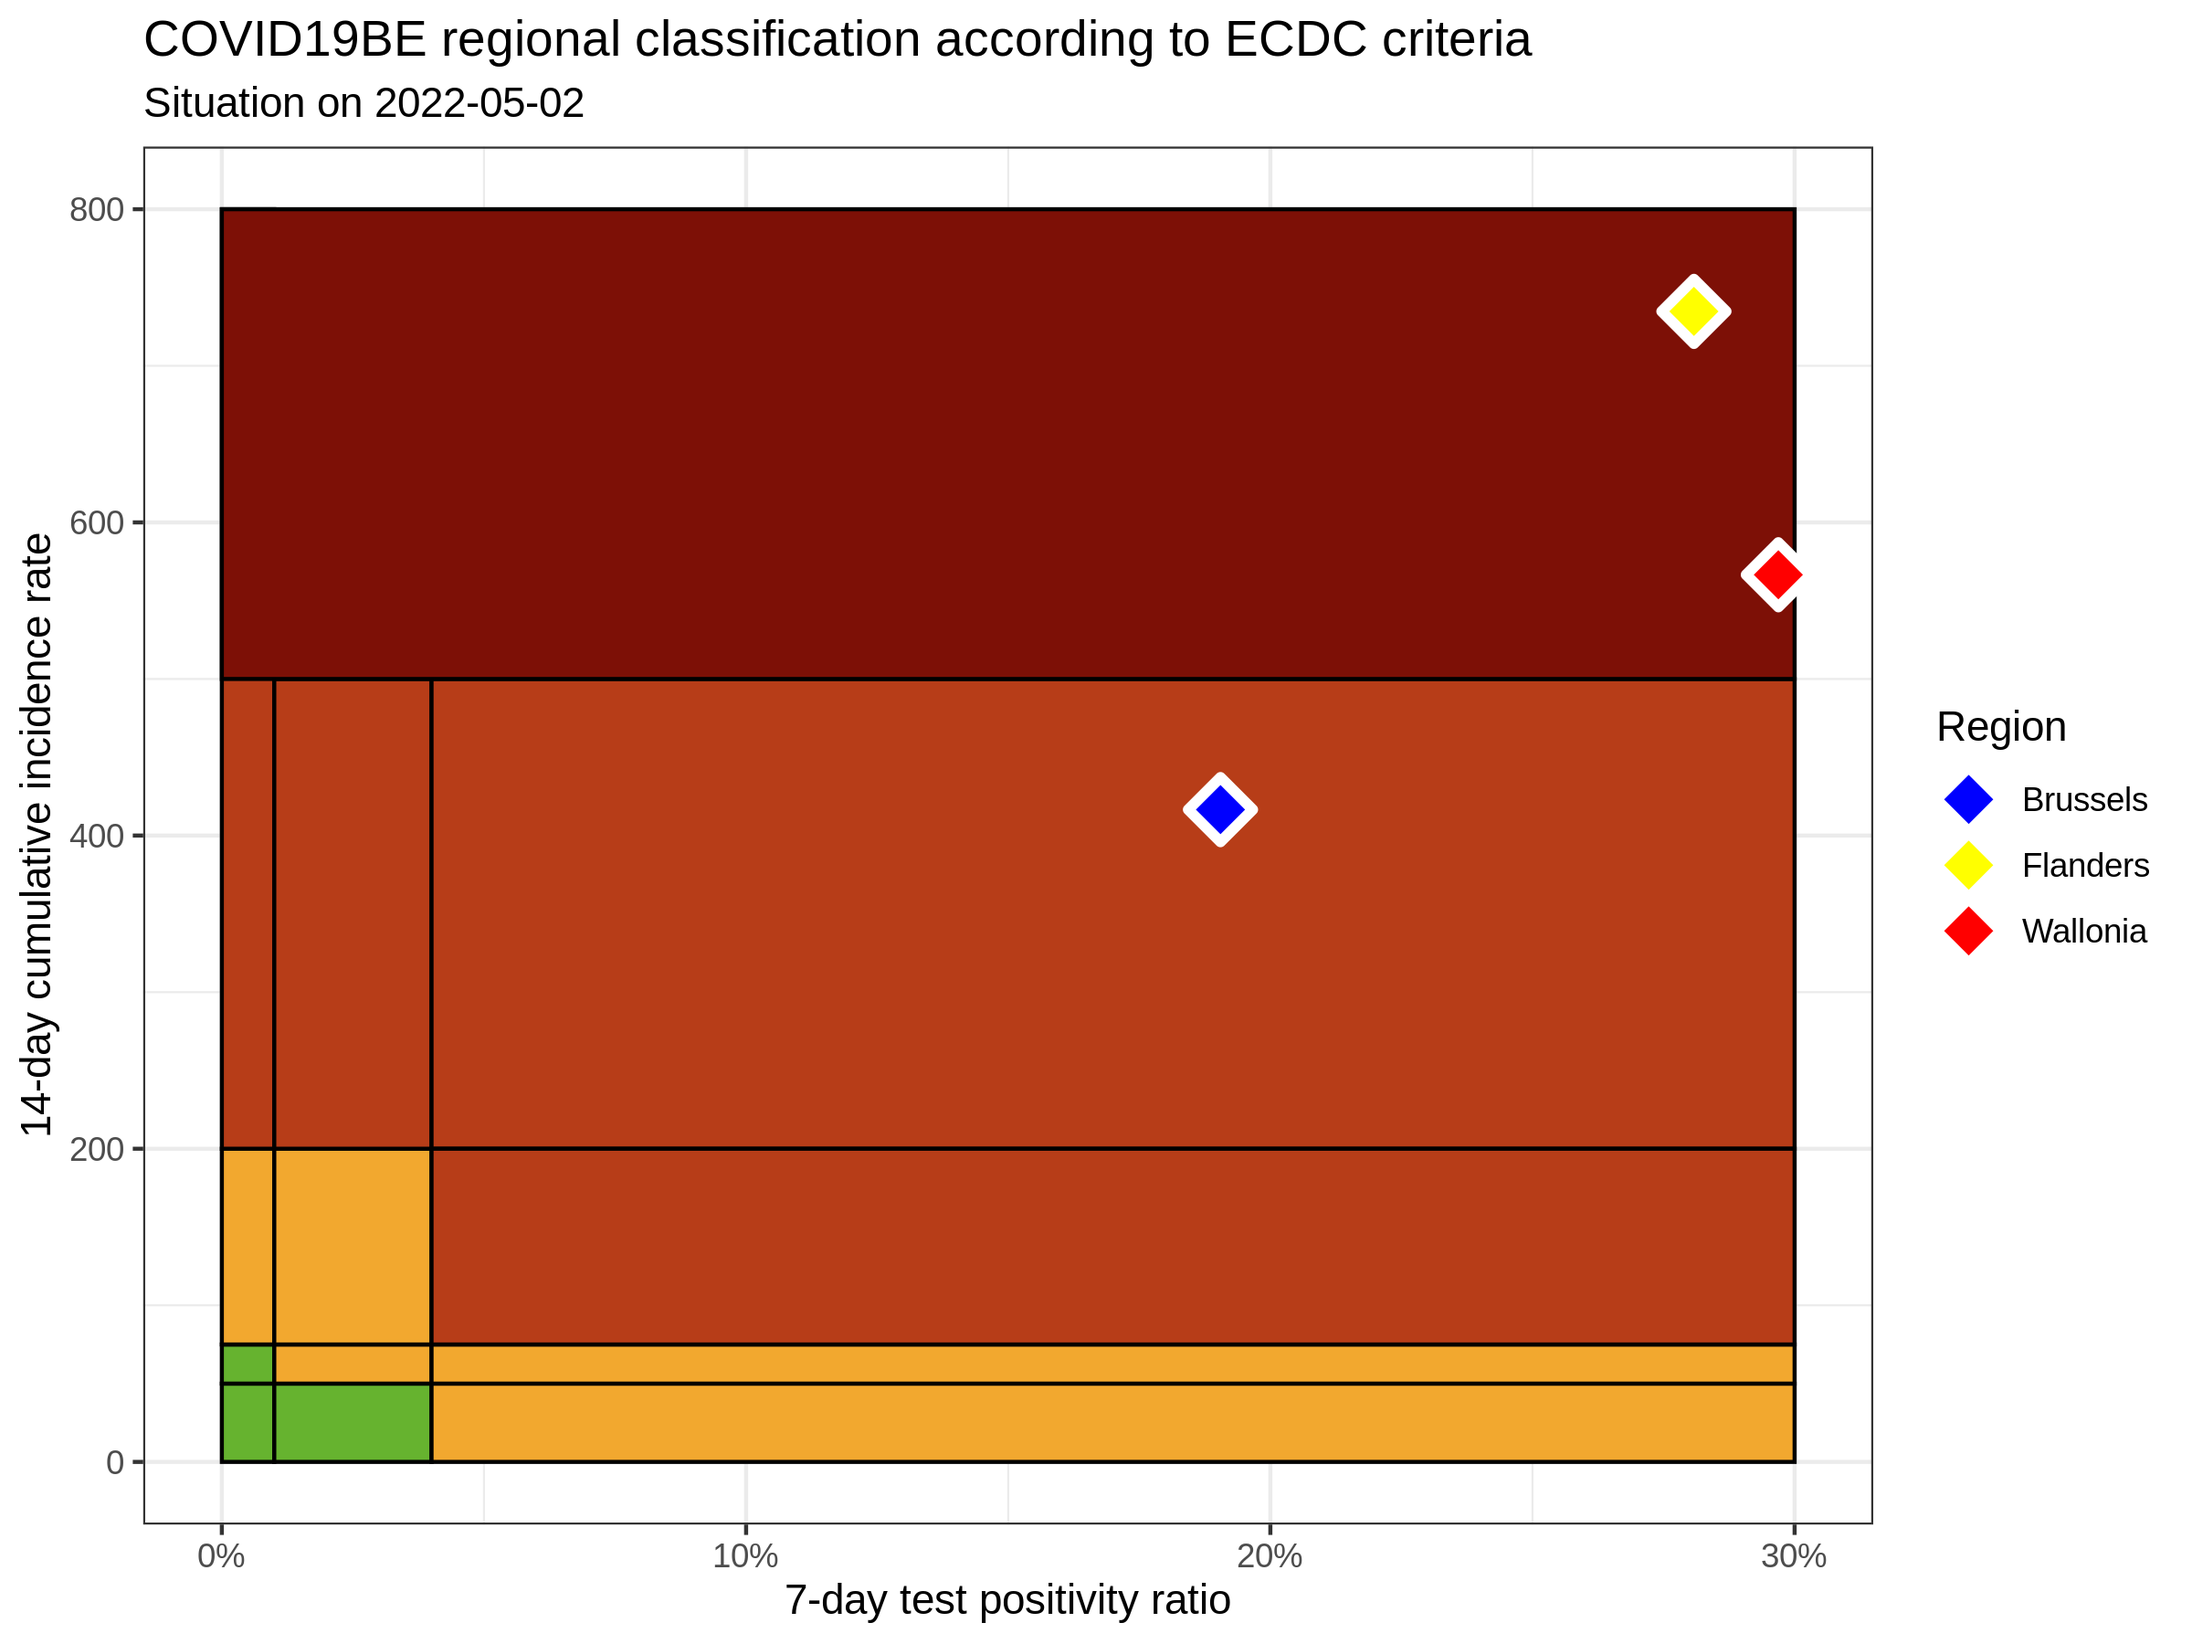
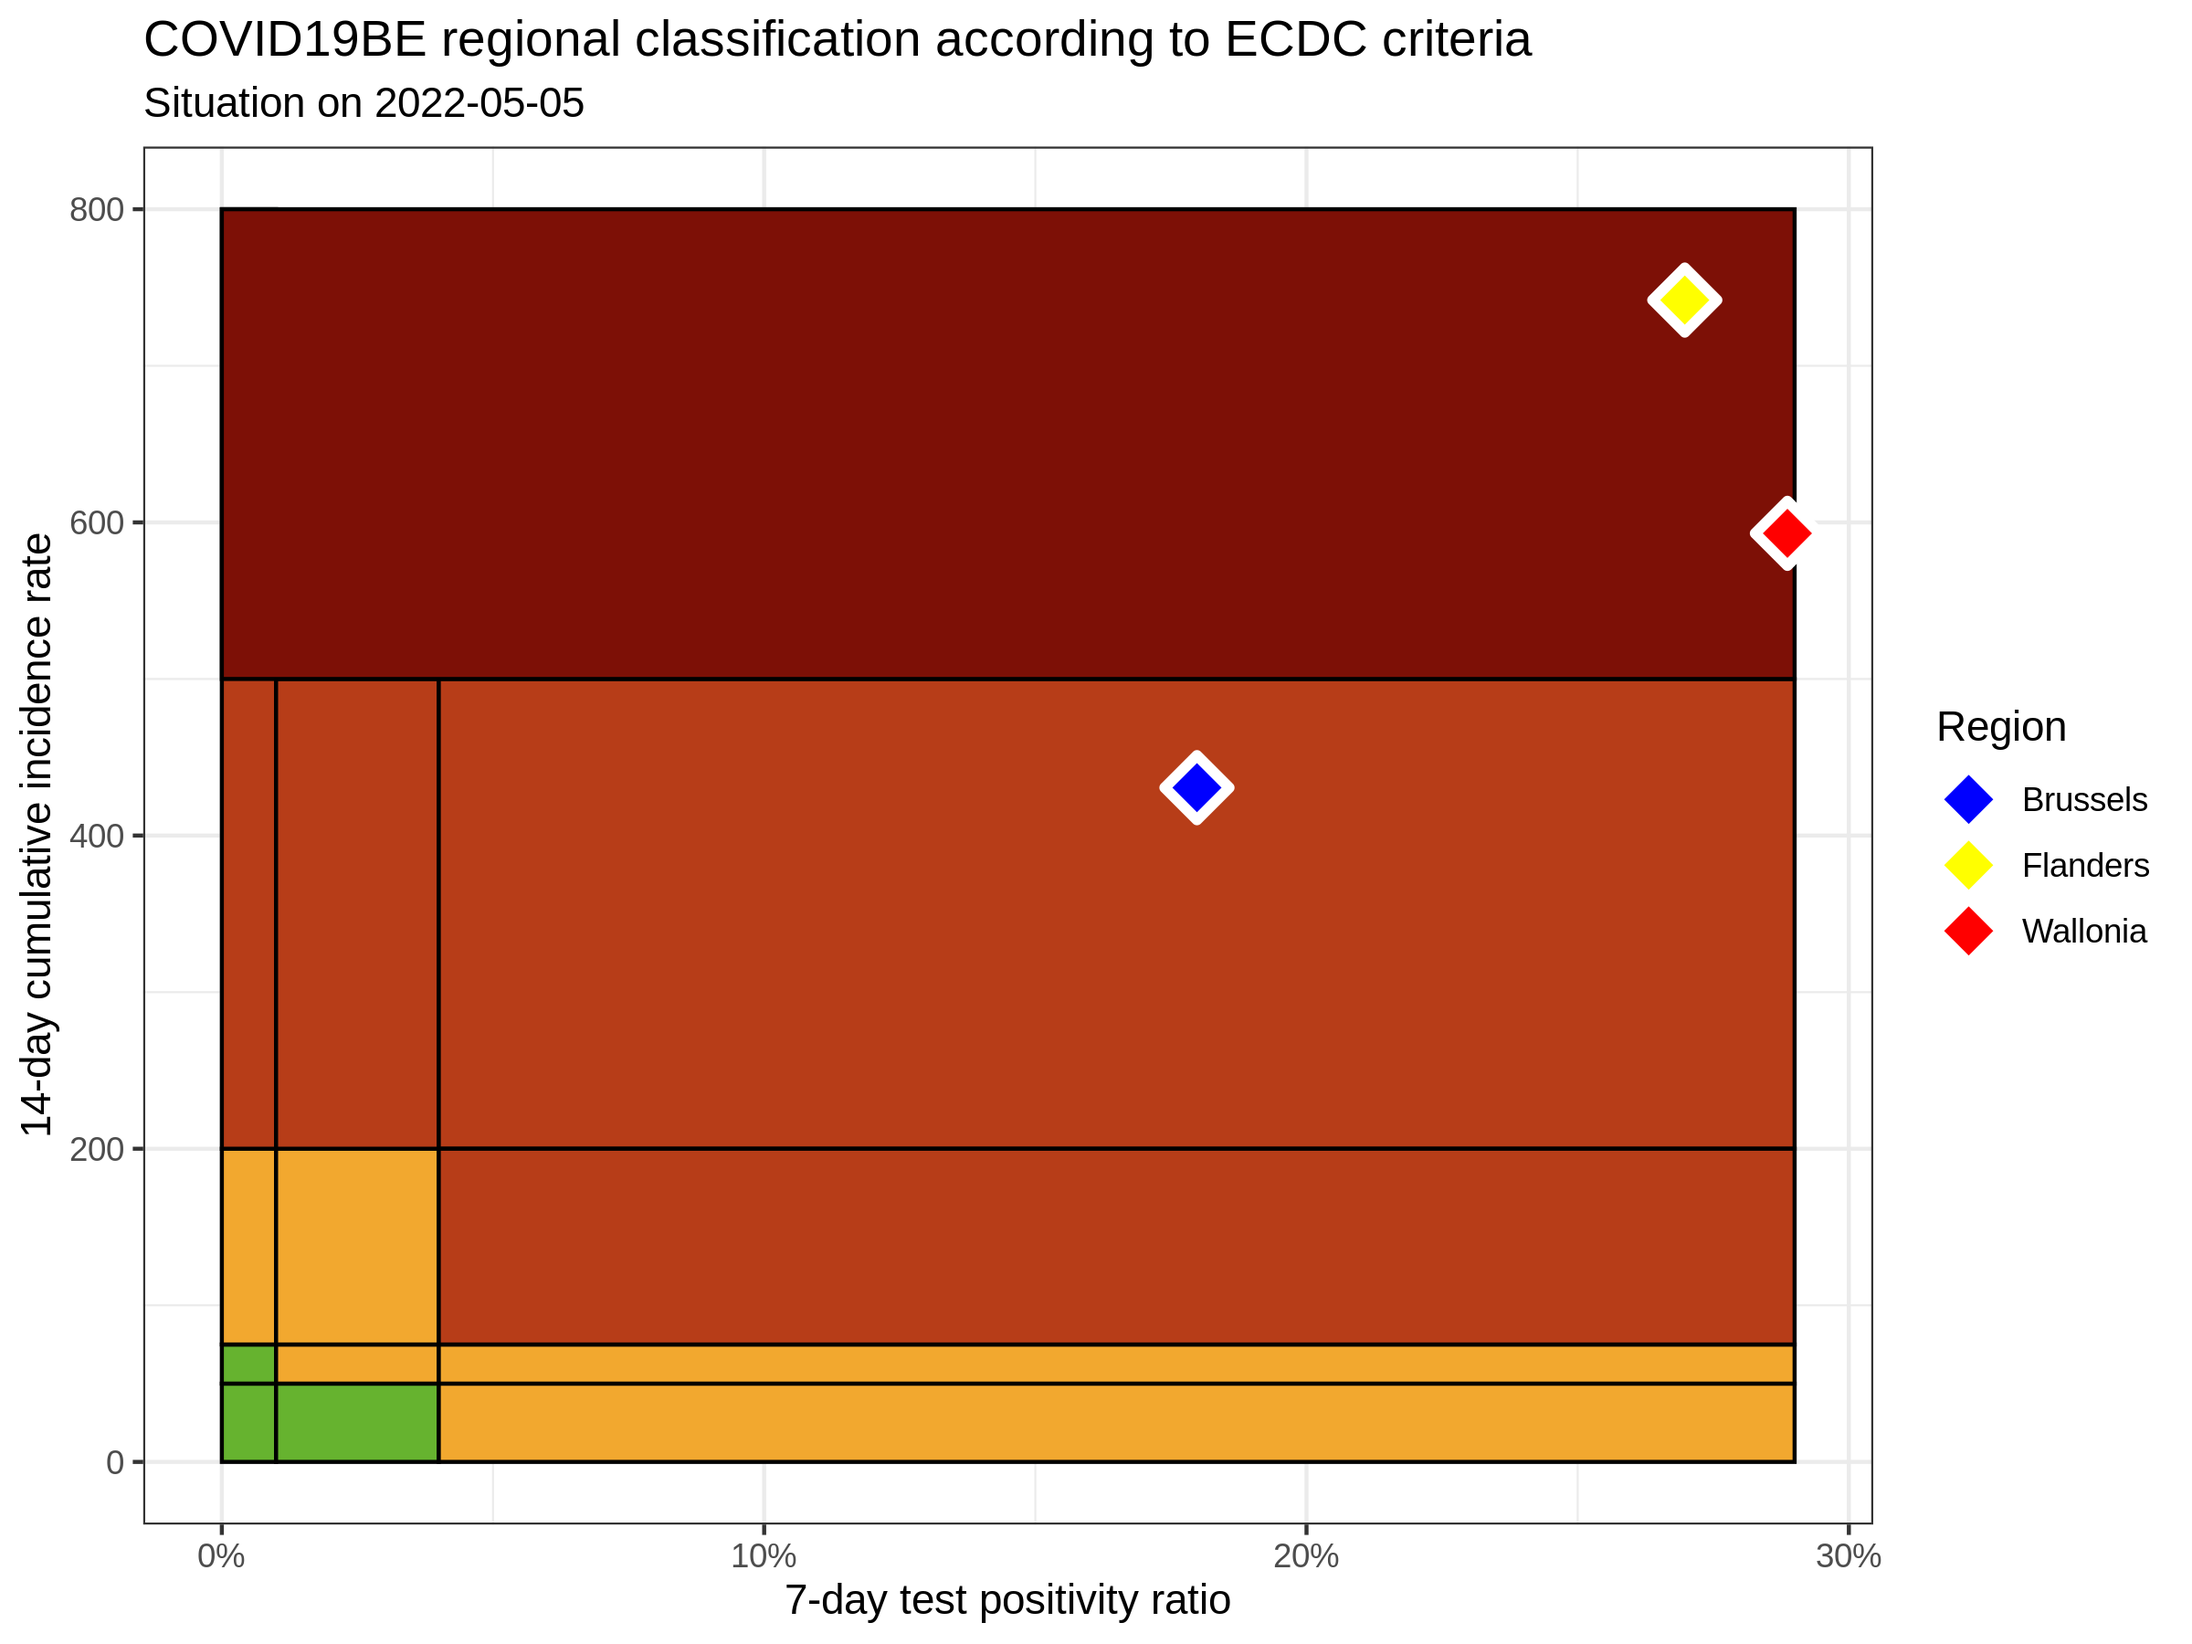
update situation

diff --git a/ecdc-trend/README.md b/ecdc-trend/README.md
@@ -11,9 +11,9 @@
 
 |          | INC14 |  INC7 |  TST7 | TST\_POS7 | REGION   |     POP | INC14\_RT |       PR7 |          GR |
 | :------- | ----: | ----: | ----: | --------: | :------- | ------: | --------: | --------: | ----------: |
-| Brussels |  5082 |  2316 | 13581 |      2587 | Brussels | 1219970 |  416.5676 | 0.1904867 | \-0.1626898 |
-| Flanders | 48883 | 21244 | 84514 |     23731 | Flanders | 6653062 |  734.7444 | 0.2807937 | \-0.2313760 |
-| Wallonia | 20669 |  9615 | 34931 |     10371 | Wallonia | 3648206 |  566.5524 | 0.2968996 | \-0.1301791 |
+| Brussels |  5253 |  2273 | 13782 |      2478 | Brussels | 1219970 |  430.5844 | 0.1797997 | \-0.2372483 |
+| Flanders | 49364 | 19640 | 81368 |     21949 | Flanders | 6653062 |  741.9741 | 0.2697498 | \-0.3392545 |
+| Wallonia | 21634 |  9167 | 34565 |      9978 | Wallonia | 3648206 |  593.0038 | 0.2886735 | \-0.2646988 |
 
 ### Read more
 
